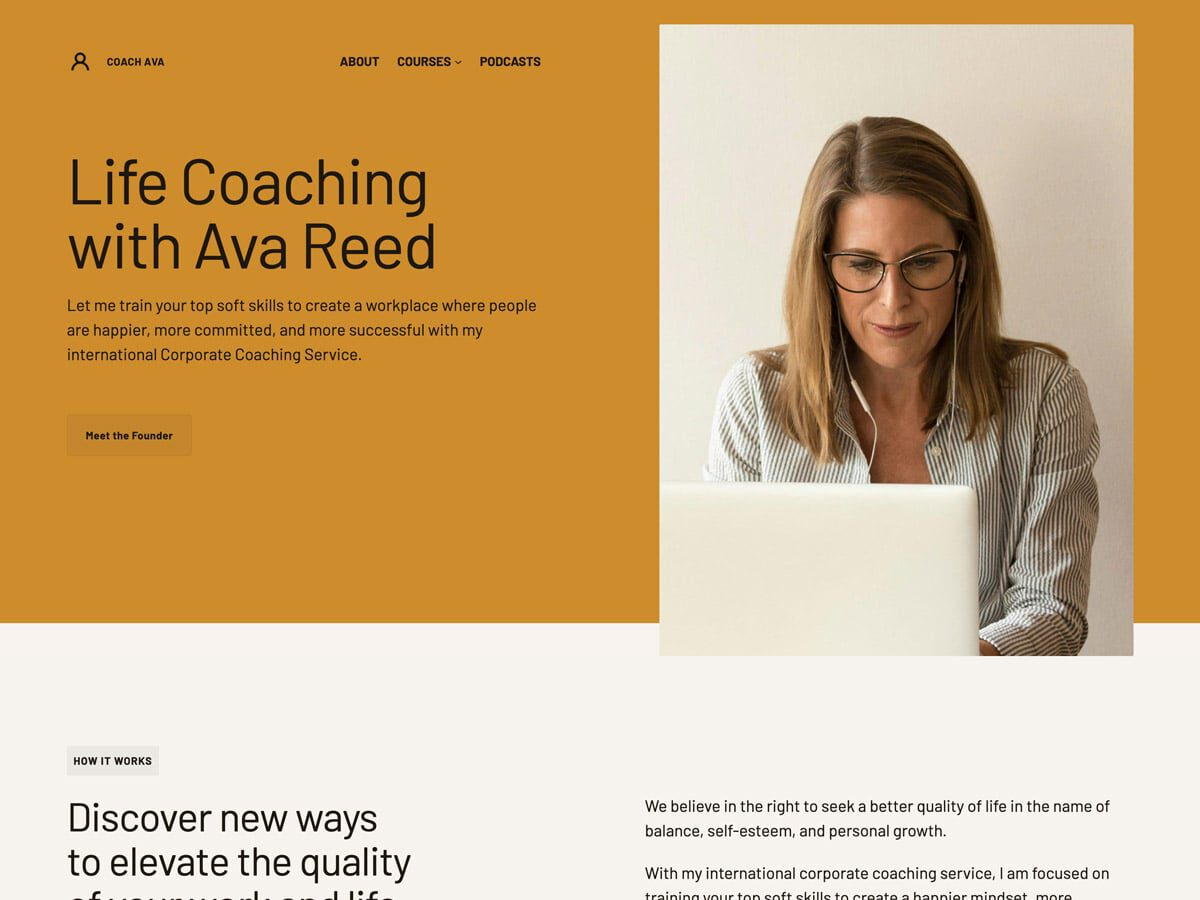
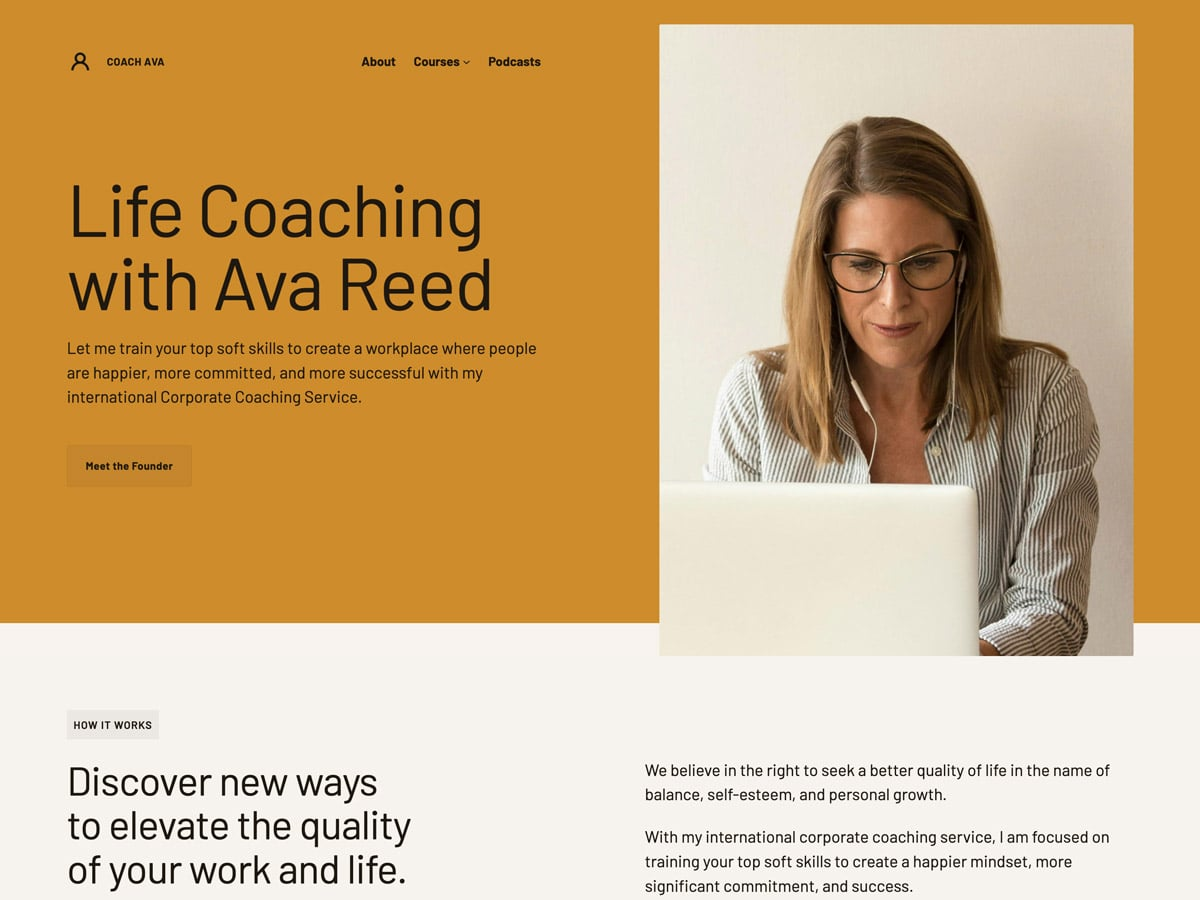
CoachAva: improves typescale for a better preview (#8309)
* CoachAva: improves typescale for a better preview

* CoachAva: updates screenshot

diff --git a/coachava/patterns/home.php b/coachava/patterns/home.php
@@ -6,12 +6,12 @@
  */
 ?>
 <!-- wp:cover {"isUserOverlayColor":true,"gradient":"default-gradient","contentPosition":"bottom center","metadata":{"name":"Hero"},"style":{"spacing":{"padding":{"top":"var:preset|spacing|50","bottom":"0","right":"0","left":"0"},"margin":{"top":"0","bottom":"0"}},"elements":{"link":{"color":{"text":"var:preset|color|contrast"}},"heading":{"color":{"text":"var:preset|color|contrast"}}}},"textColor":"contrast","layout":{"type":"constrained"}} -->
-<div class="wp-block-cover has-custom-content-position is-position-bottom-center has-contrast-color has-text-color has-link-color" style="margin-top:0;margin-bottom:0;padding-top:var(--wp--preset--spacing--50);padding-right:0;padding-bottom:0;padding-left:0"><span aria-hidden="true" class="wp-block-cover__background has-background-dim-100 has-background-dim has-background-gradient has-default-gradient-gradient-background"></span><div class="wp-block-cover__inner-container"><!-- wp:columns {"align":"wide","style":{"spacing":{"blockGap":{"top":"var:preset|spacing|60"}}}} -->
+<div class="wp-block-cover has-custom-content-position is-position-bottom-center has-contrast-color has-text-color has-link-color" style="margin-top:0;margin-bottom:0;padding-top:var(--wp--preset--spacing--50);padding-right:0;padding-bottom:0;padding-left:0"><span aria-hidden="true" class="wp-block-cover__background has-background-dim-100 has-background-dim has-background-gradient has-default-gradient-gradient-background"></span><div class="wp-block-cover__inner-container"><!-- wp:columns {"align":"wide","style":{"spacing":{"blockGap":{"top":"var:preset|spacing|50"}}}} -->
 <div class="wp-block-columns alignwide"><!-- wp:column {"verticalAlignment":"stretch"} -->
 <div class="wp-block-column is-vertically-aligned-stretch"><!-- wp:template-part {"slug":"header","tagName":"header","align":"wide"} /-->
 
-<!-- wp:group {"style":{"spacing":{"blockGap":"var:preset|spacing|40","margin":{"top":"var:preset|spacing|70","bottom":"var:preset|spacing|60"}}},"layout":{"type":"constrained"}} -->
-<div class="wp-block-group" style="margin-top:var(--wp--preset--spacing--70);margin-bottom:var(--wp--preset--spacing--60)"><!-- wp:heading {"textAlign":"left","level":1} -->
+<!-- wp:group {"style":{"spacing":{"blockGap":"var:preset|spacing|40","margin":{"top":"var:preset|spacing|80","bottom":"var:preset|spacing|60"}}},"layout":{"type":"constrained"}} -->
+<div class="wp-block-group" style="margin-top:var(--wp--preset--spacing--80);margin-bottom:var(--wp--preset--spacing--60)"><!-- wp:heading {"textAlign":"left","level":1} -->
 <h1 class="wp-block-heading has-text-align-left"><?php esc_html_e('Life Coaching with Ava Reed', 'coachava');?></h1>
 <!-- /wp:heading -->
 
@@ -40,11 +40,11 @@
 <!-- /wp:cover -->
 
 <!-- wp:group {"tagName":"main","metadata":{"name":"Content"},"layout":{"type":"constrained"}} -->
-<main class="wp-block-group"><!-- wp:group {"metadata":{"name":"Services"},"align":"wide","style":{"spacing":{"margin":{"top":"0","bottom":"0"},"padding":{"top":"var:preset|spacing|80","bottom":"var:preset|spacing|80"}},"elements":{"link":{"color":{"text":"var:preset|color|contrast"}}}},"backgroundColor":"base","textColor":"contrast","layout":{"type":"constrained"}} -->
-<div class="wp-block-group alignwide has-contrast-color has-base-background-color has-text-color has-background has-link-color" style="margin-top:0;margin-bottom:0;padding-top:var(--wp--preset--spacing--80);padding-bottom:var(--wp--preset--spacing--80)"><!-- wp:group {"metadata":{"name":"Thin line"},"align":"wide","layout":{"type":"flex","flexWrap":"nowrap"}} -->
+<main class="wp-block-group"><!-- wp:group {"metadata":{"name":"Services"},"align":"wide","style":{"spacing":{"margin":{"top":"0","bottom":"0"},"padding":{"top":"var:preset|spacing|60","bottom":"var:preset|spacing|80"}},"elements":{"link":{"color":{"text":"var:preset|color|contrast"}}}},"backgroundColor":"base","textColor":"contrast","layout":{"type":"constrained"}} -->
+<div class="wp-block-group alignwide has-contrast-color has-base-background-color has-text-color has-background has-link-color" style="margin-top:0;margin-bottom:0;padding-top:var(--wp--preset--spacing--60);padding-bottom:var(--wp--preset--spacing--80)"><!-- wp:group {"metadata":{"name":"Thin line"},"align":"wide","layout":{"type":"flex","flexWrap":"nowrap"}} -->
 <div class="wp-block-group alignwide"><!-- wp:group {"style":{"spacing":{"padding":{"top":"var:preset|spacing|20","right":"var:preset|spacing|20","bottom":"var:preset|spacing|20","left":"var:preset|spacing|20"}},"border":{"radius":"0px"}},"backgroundColor":"tertiary","layout":{"type":"constrained"}} -->
-<div class="wp-block-group has-tertiary-background-color has-background" style="border-radius:0px;padding-top:var(--wp--preset--spacing--20);padding-right:var(--wp--preset--spacing--20);padding-bottom:var(--wp--preset--spacing--20);padding-left:var(--wp--preset--spacing--20)"><!-- wp:paragraph {"style":{"typography":{"textTransform":"uppercase","letterSpacing":"0.05rem","fontStyle":"normal","fontWeight":"700"}},"fontSize":"small"} -->
-<p class="has-small-font-size" style="font-style:normal;font-weight:700;letter-spacing:0.05rem;text-transform:uppercase"><?php esc_html_e('How it works', 'coachava');?></p>
+<div class="wp-block-group has-tertiary-background-color has-background" style="border-radius:0px;padding-top:var(--wp--preset--spacing--20);padding-right:var(--wp--preset--spacing--20);padding-bottom:var(--wp--preset--spacing--20);padding-left:var(--wp--preset--spacing--20)"><!-- wp:paragraph {"style":{"typography":{"textTransform":"uppercase","letterSpacing":"0.05rem","fontStyle":"normal","fontWeight":"600"}},"fontSize":"small"} -->
+<p class="has-small-font-size" style="font-style:normal;font-weight:600;letter-spacing:0.05rem;text-transform:uppercase"><?php esc_html_e('How it works', 'coachava');?></p>
 <!-- /wp:paragraph --></div>
 <!-- /wp:group --></div>
 <!-- /wp:group -->
@@ -168,8 +168,8 @@
 <div class="wp-block-column is-vertically-aligned-top"><!-- wp:group {"style":{"spacing":{"padding":{"right":"var:preset|spacing|60","left":"var:preset|spacing|60"}}},"layout":{"type":"constrained"}} -->
 <div class="wp-block-group" style="padding-right:var(--wp--preset--spacing--60);padding-left:var(--wp--preset--spacing--60)"><!-- wp:group {"metadata":{"name":"Thin line"},"align":"wide","layout":{"type":"flex","flexWrap":"nowrap"}} -->
 <div class="wp-block-group alignwide"><!-- wp:group {"style":{"spacing":{"padding":{"top":"var:preset|spacing|20","right":"var:preset|spacing|20","bottom":"var:preset|spacing|20","left":"var:preset|spacing|20"}},"border":{"radius":"0px","width":"1px","style":"dotted"},"elements":{"link":{"color":{"text":"var:preset|color|primary"}}}},"backgroundColor":"tertiary","textColor":"primary","layout":{"type":"constrained"}} -->
-<div class="wp-block-group has-primary-color has-tertiary-background-color has-text-color has-background has-link-color" style="border-style:dotted;border-width:1px;border-radius:0px;padding-top:var(--wp--preset--spacing--20);padding-right:var(--wp--preset--spacing--20);padding-bottom:var(--wp--preset--spacing--20);padding-left:var(--wp--preset--spacing--20)"><!-- wp:paragraph {"style":{"typography":{"textTransform":"uppercase","letterSpacing":"0.05rem","fontStyle":"normal","fontWeight":"700"}},"fontSize":"small"} -->
-<p class="has-small-font-size" style="font-style:normal;font-weight:700;letter-spacing:0.05rem;text-transform:uppercase"><?php esc_html_e('Learn and Grow', 'coachava');?></p>
+<div class="wp-block-group has-primary-color has-tertiary-background-color has-text-color has-background has-link-color" style="border-style:dotted;border-width:1px;border-radius:0px;padding-top:var(--wp--preset--spacing--20);padding-right:var(--wp--preset--spacing--20);padding-bottom:var(--wp--preset--spacing--20);padding-left:var(--wp--preset--spacing--20)"><!-- wp:paragraph {"style":{"typography":{"textTransform":"uppercase","letterSpacing":"0.05rem","fontStyle":"normal","fontWeight":"600"}},"fontSize":"small"} -->
+<p class="has-small-font-size" style="font-style:normal;font-weight:600;letter-spacing:0.05rem;text-transform:uppercase"><?php esc_html_e('Learn and Grow', 'coachava');?></p>
 <!-- /wp:paragraph --></div>
 <!-- /wp:group --></div>
 <!-- /wp:group -->
@@ -358,8 +358,8 @@
 <!-- wp:group {"metadata":{"name":"Courses"},"align":"wide","layout":{"type":"constrained"}} -->
 <div class="wp-block-group alignwide"><!-- wp:group {"metadata":{"name":"Thin line and Title","patternName":"coachava/thin-line-and-title"},"align":"wide","style":{"spacing":{"blockGap":"var:preset|spacing|40"}},"layout":{"type":"flex","orientation":"vertical","justifyContent":"left"}} -->
 <div class="wp-block-group alignwide"><!-- wp:group {"style":{"spacing":{"padding":{"top":"var:preset|spacing|20","right":"var:preset|spacing|20","bottom":"var:preset|spacing|20","left":"var:preset|spacing|20"}},"border":{"radius":"0px"}},"backgroundColor":"tertiary","layout":{"type":"constrained"}} -->
-<div class="wp-block-group has-tertiary-background-color has-background" style="border-radius:0px;padding-top:var(--wp--preset--spacing--20);padding-right:var(--wp--preset--spacing--20);padding-bottom:var(--wp--preset--spacing--20);padding-left:var(--wp--preset--spacing--20)"><!-- wp:paragraph {"align":"left","style":{"typography":{"textTransform":"uppercase","letterSpacing":"0.05rem","fontStyle":"normal","fontWeight":"700"}},"fontSize":"small"} -->
-<p class="has-text-align-left has-small-font-size" style="font-style:normal;font-weight:700;letter-spacing:0.05rem;text-transform:uppercase"><?php esc_html_e('Online courses', 'coachava');?></p>
+<div class="wp-block-group has-tertiary-background-color has-background" style="border-radius:0px;padding-top:var(--wp--preset--spacing--20);padding-right:var(--wp--preset--spacing--20);padding-bottom:var(--wp--preset--spacing--20);padding-left:var(--wp--preset--spacing--20)"><!-- wp:paragraph {"align":"left","style":{"typography":{"textTransform":"uppercase","letterSpacing":"0.05rem","fontStyle":"normal","fontWeight":"600"}},"fontSize":"small"} -->
+<p class="has-text-align-left has-small-font-size" style="font-style:normal;font-weight:600;letter-spacing:0.05rem;text-transform:uppercase"><?php esc_html_e('Online courses', 'coachava');?></p>
 <!-- /wp:paragraph --></div>
 <!-- /wp:group -->
 
